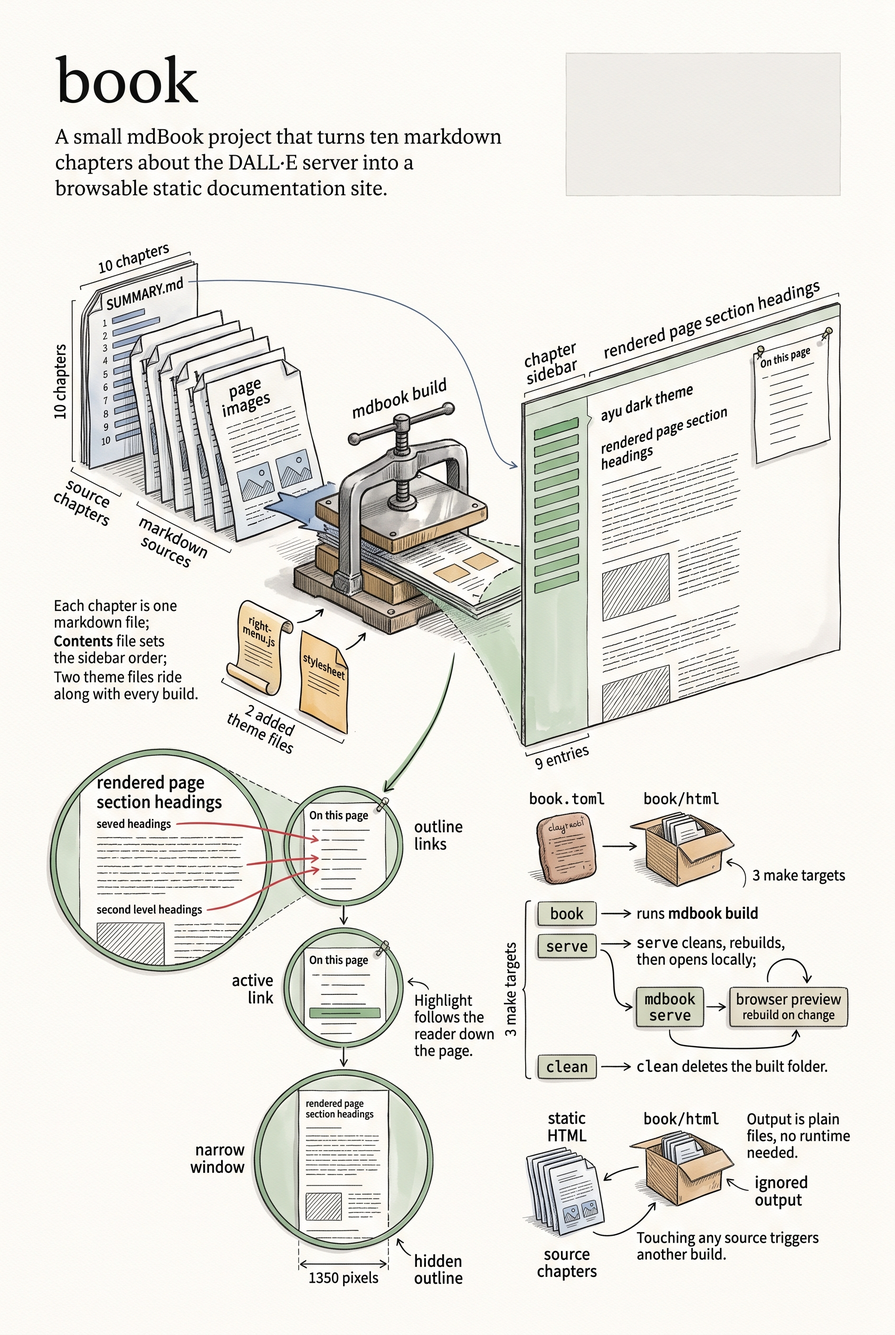
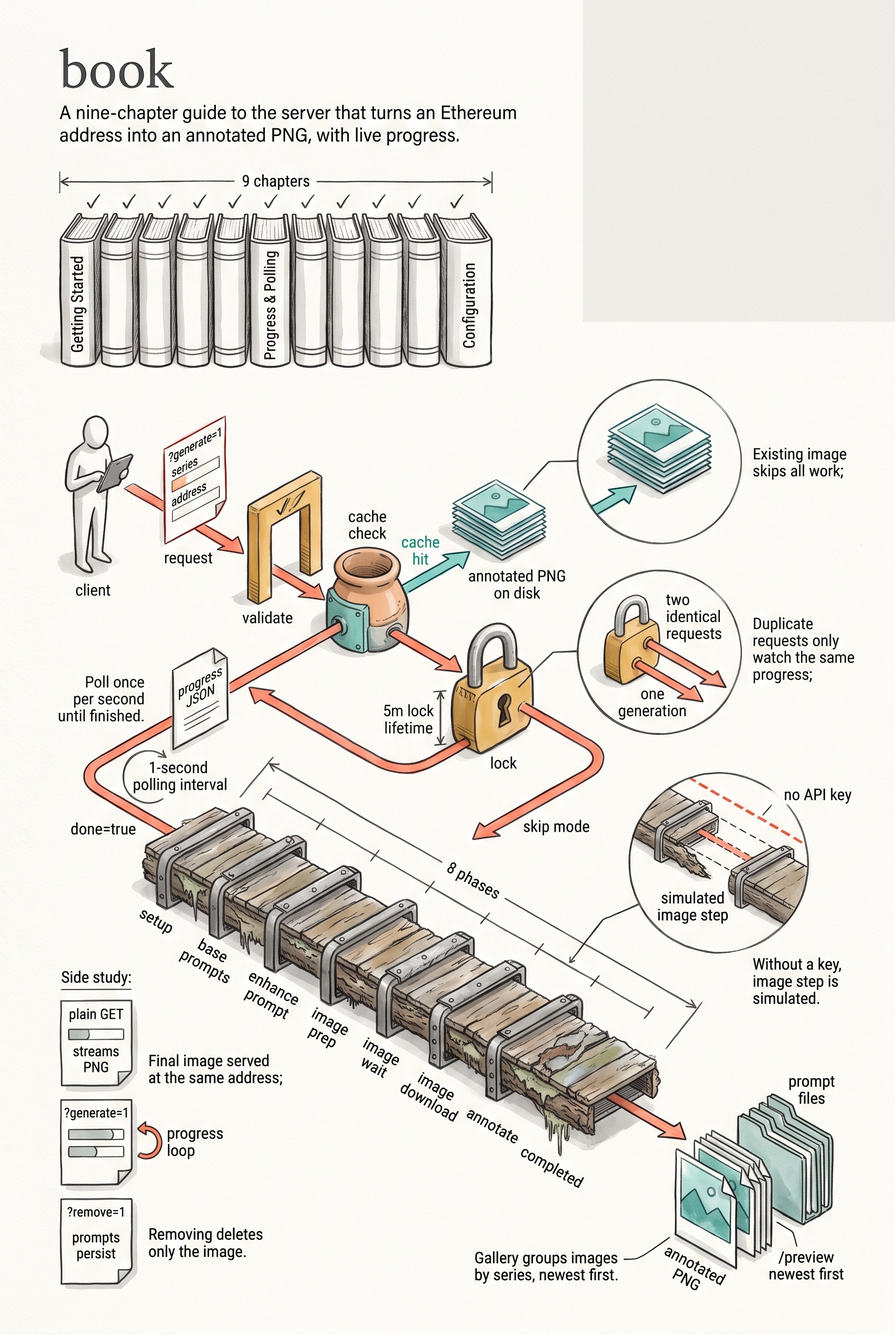
update

diff --git a/book/README.md b/book/README.md
@@ -7,11 +7,10 @@ This mini-book documents ONLY what exists in this repository (excluding the vend
 2. [Getting Started](./src/getting-started.md)
 3. [Running the Server](./src/running-the-server.md)
 4. [Usage & Endpoints](./src/usage-endpoints.md)
-5. [Configuration Reference](./src/configuration.md)
-6. [Preview](./src/preview.md)
-7. [Progress](./src/progress.md)
-8. [DalleDress Schema](./src/dalledress-schema.md)
-9. [Testing](./src/testing.md)
-10. [References](./src/references.md)
+5. [Progress](./src/progress.md)
+6. [Configuration Reference](./src/configuration.md)
+7. [Preview](./src/preview.md)
+8. [Testing](./src/testing.md)
+9. [References](./src/references.md)
 
 ![README infographic](README-infographic.jpg)

diff --git a/README.md b/README.md
@@ -90,9 +90,9 @@ http://localhost:8080/preview
 | `TB_DALLE_IMAGE_TIMEOUT` | Timeout for image request + download | `30s` |
 | `DALLE_QUALITY` | DALL·E quality parameter (`standard`, `hd`, etc.) | `standard` |
 
-The key is read from the shared credential store at
+Each key the configured models need is read from the shared credential store at
 `~/.config/trueblocks/credentials` (via the monorepo's `packages/creds`); the
-`OPENAI_API_KEY` environment variable also works. Inject it for a single run
+matching environment variable also works. Inject a key for a single run
 with:
 
 ```fish
